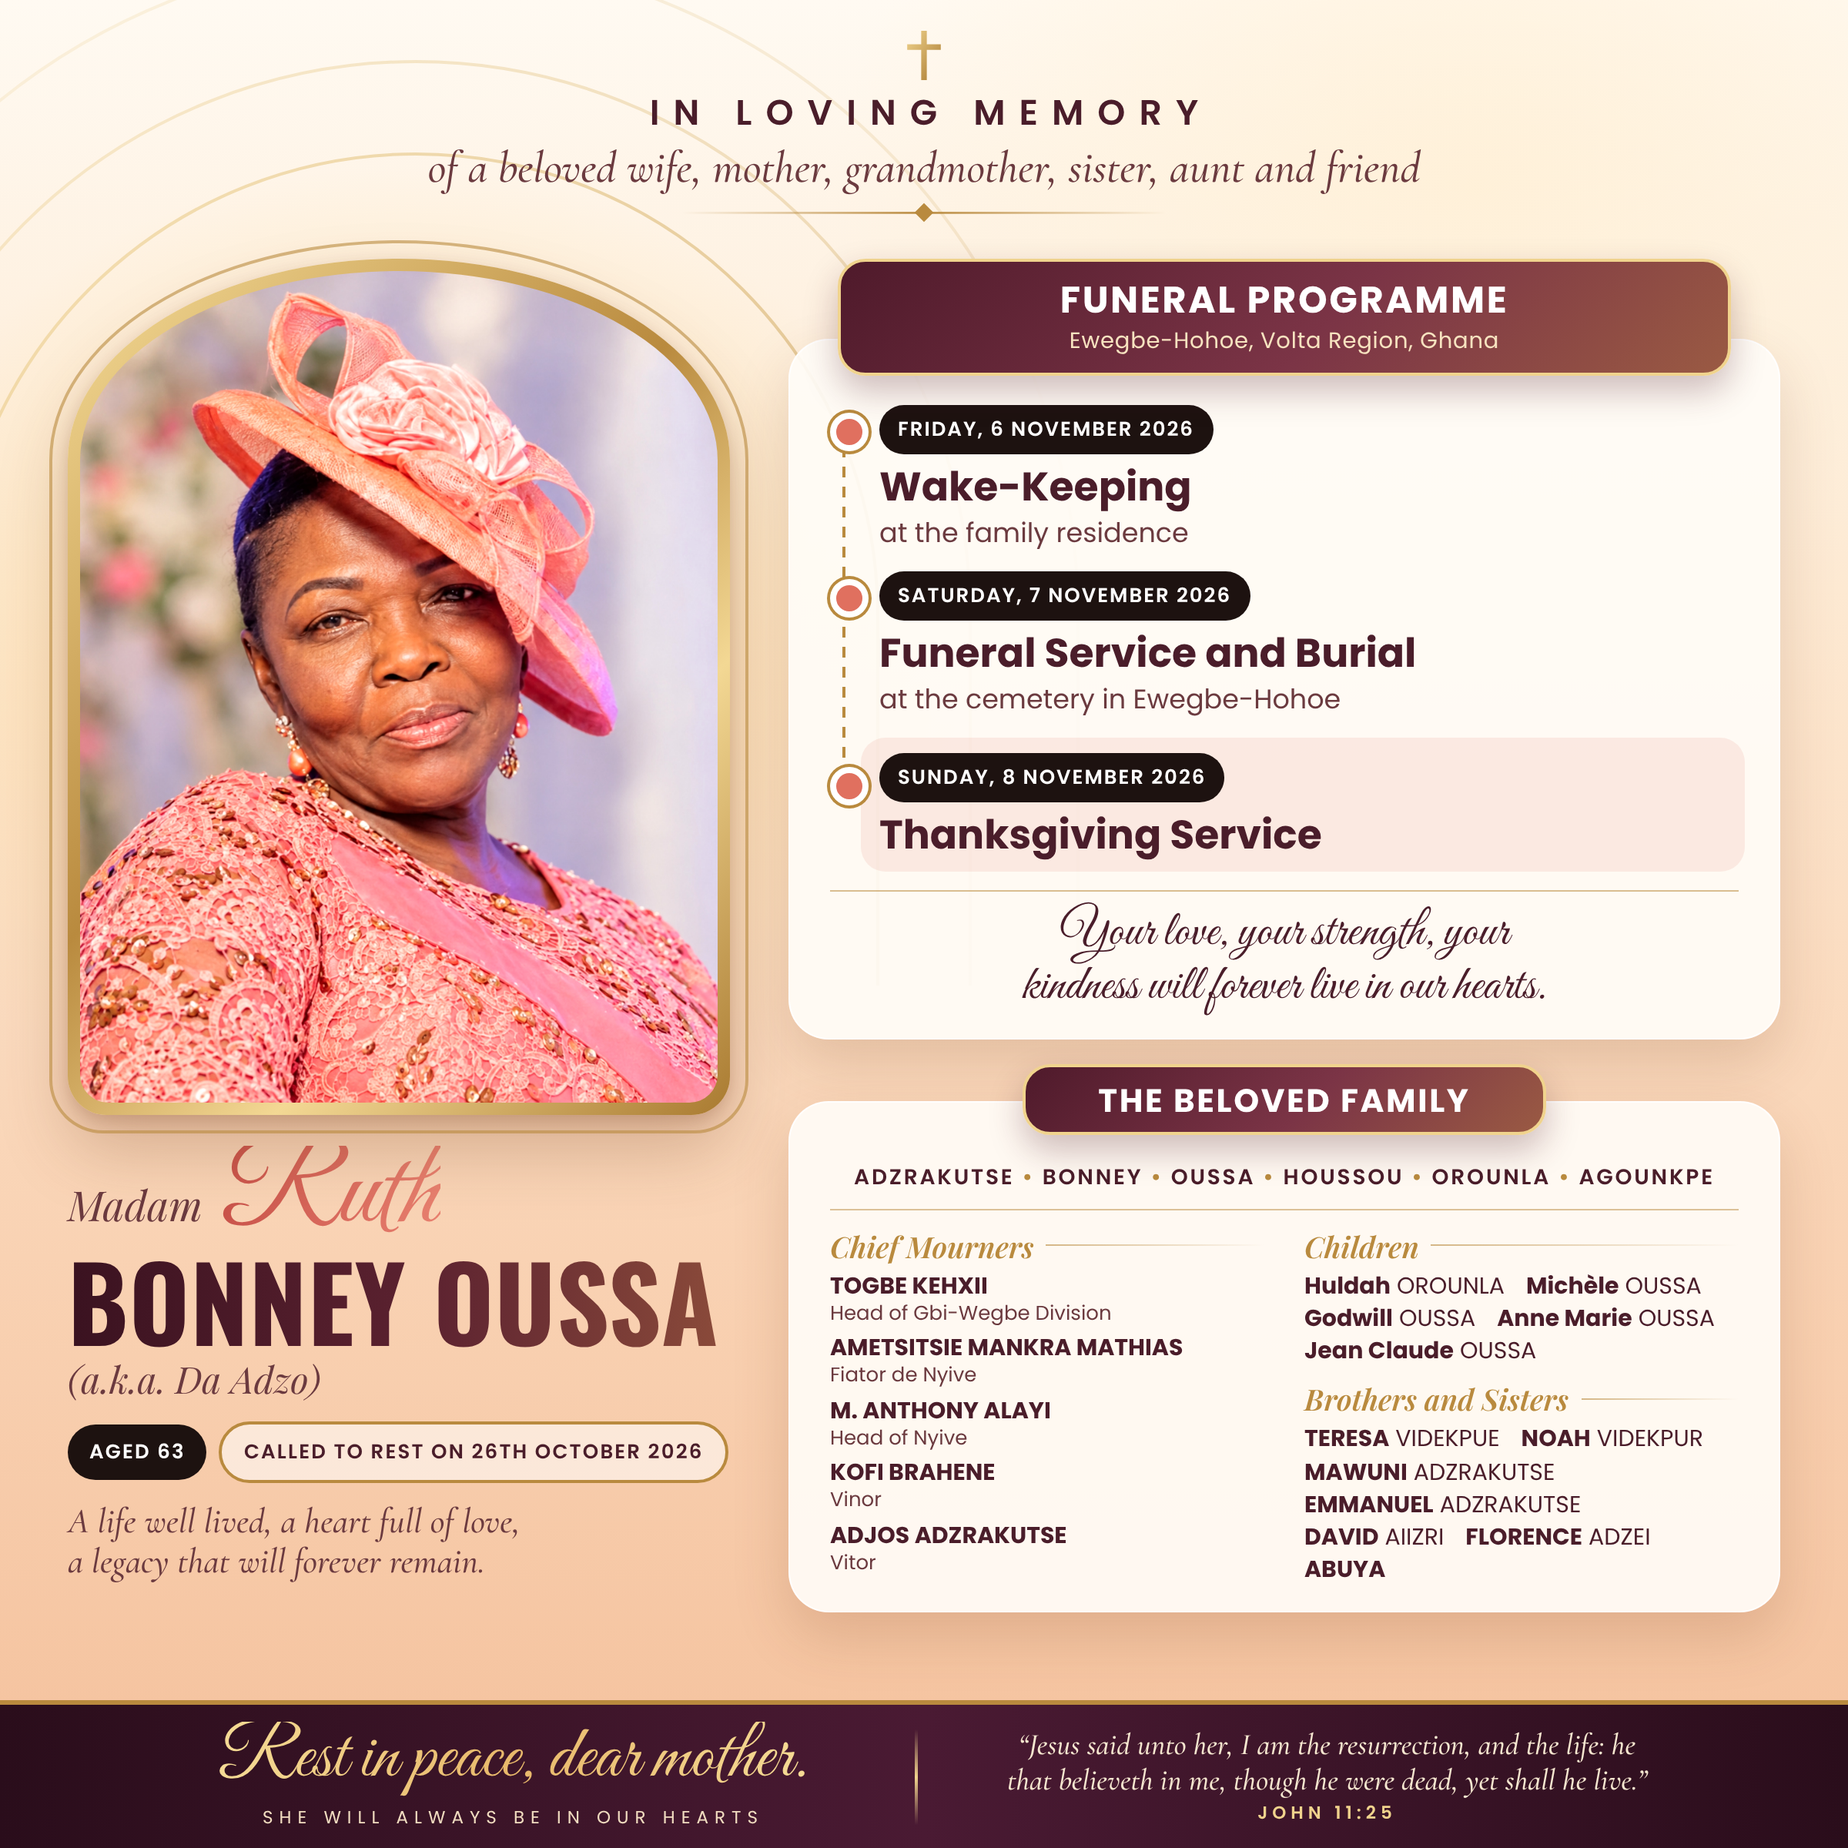
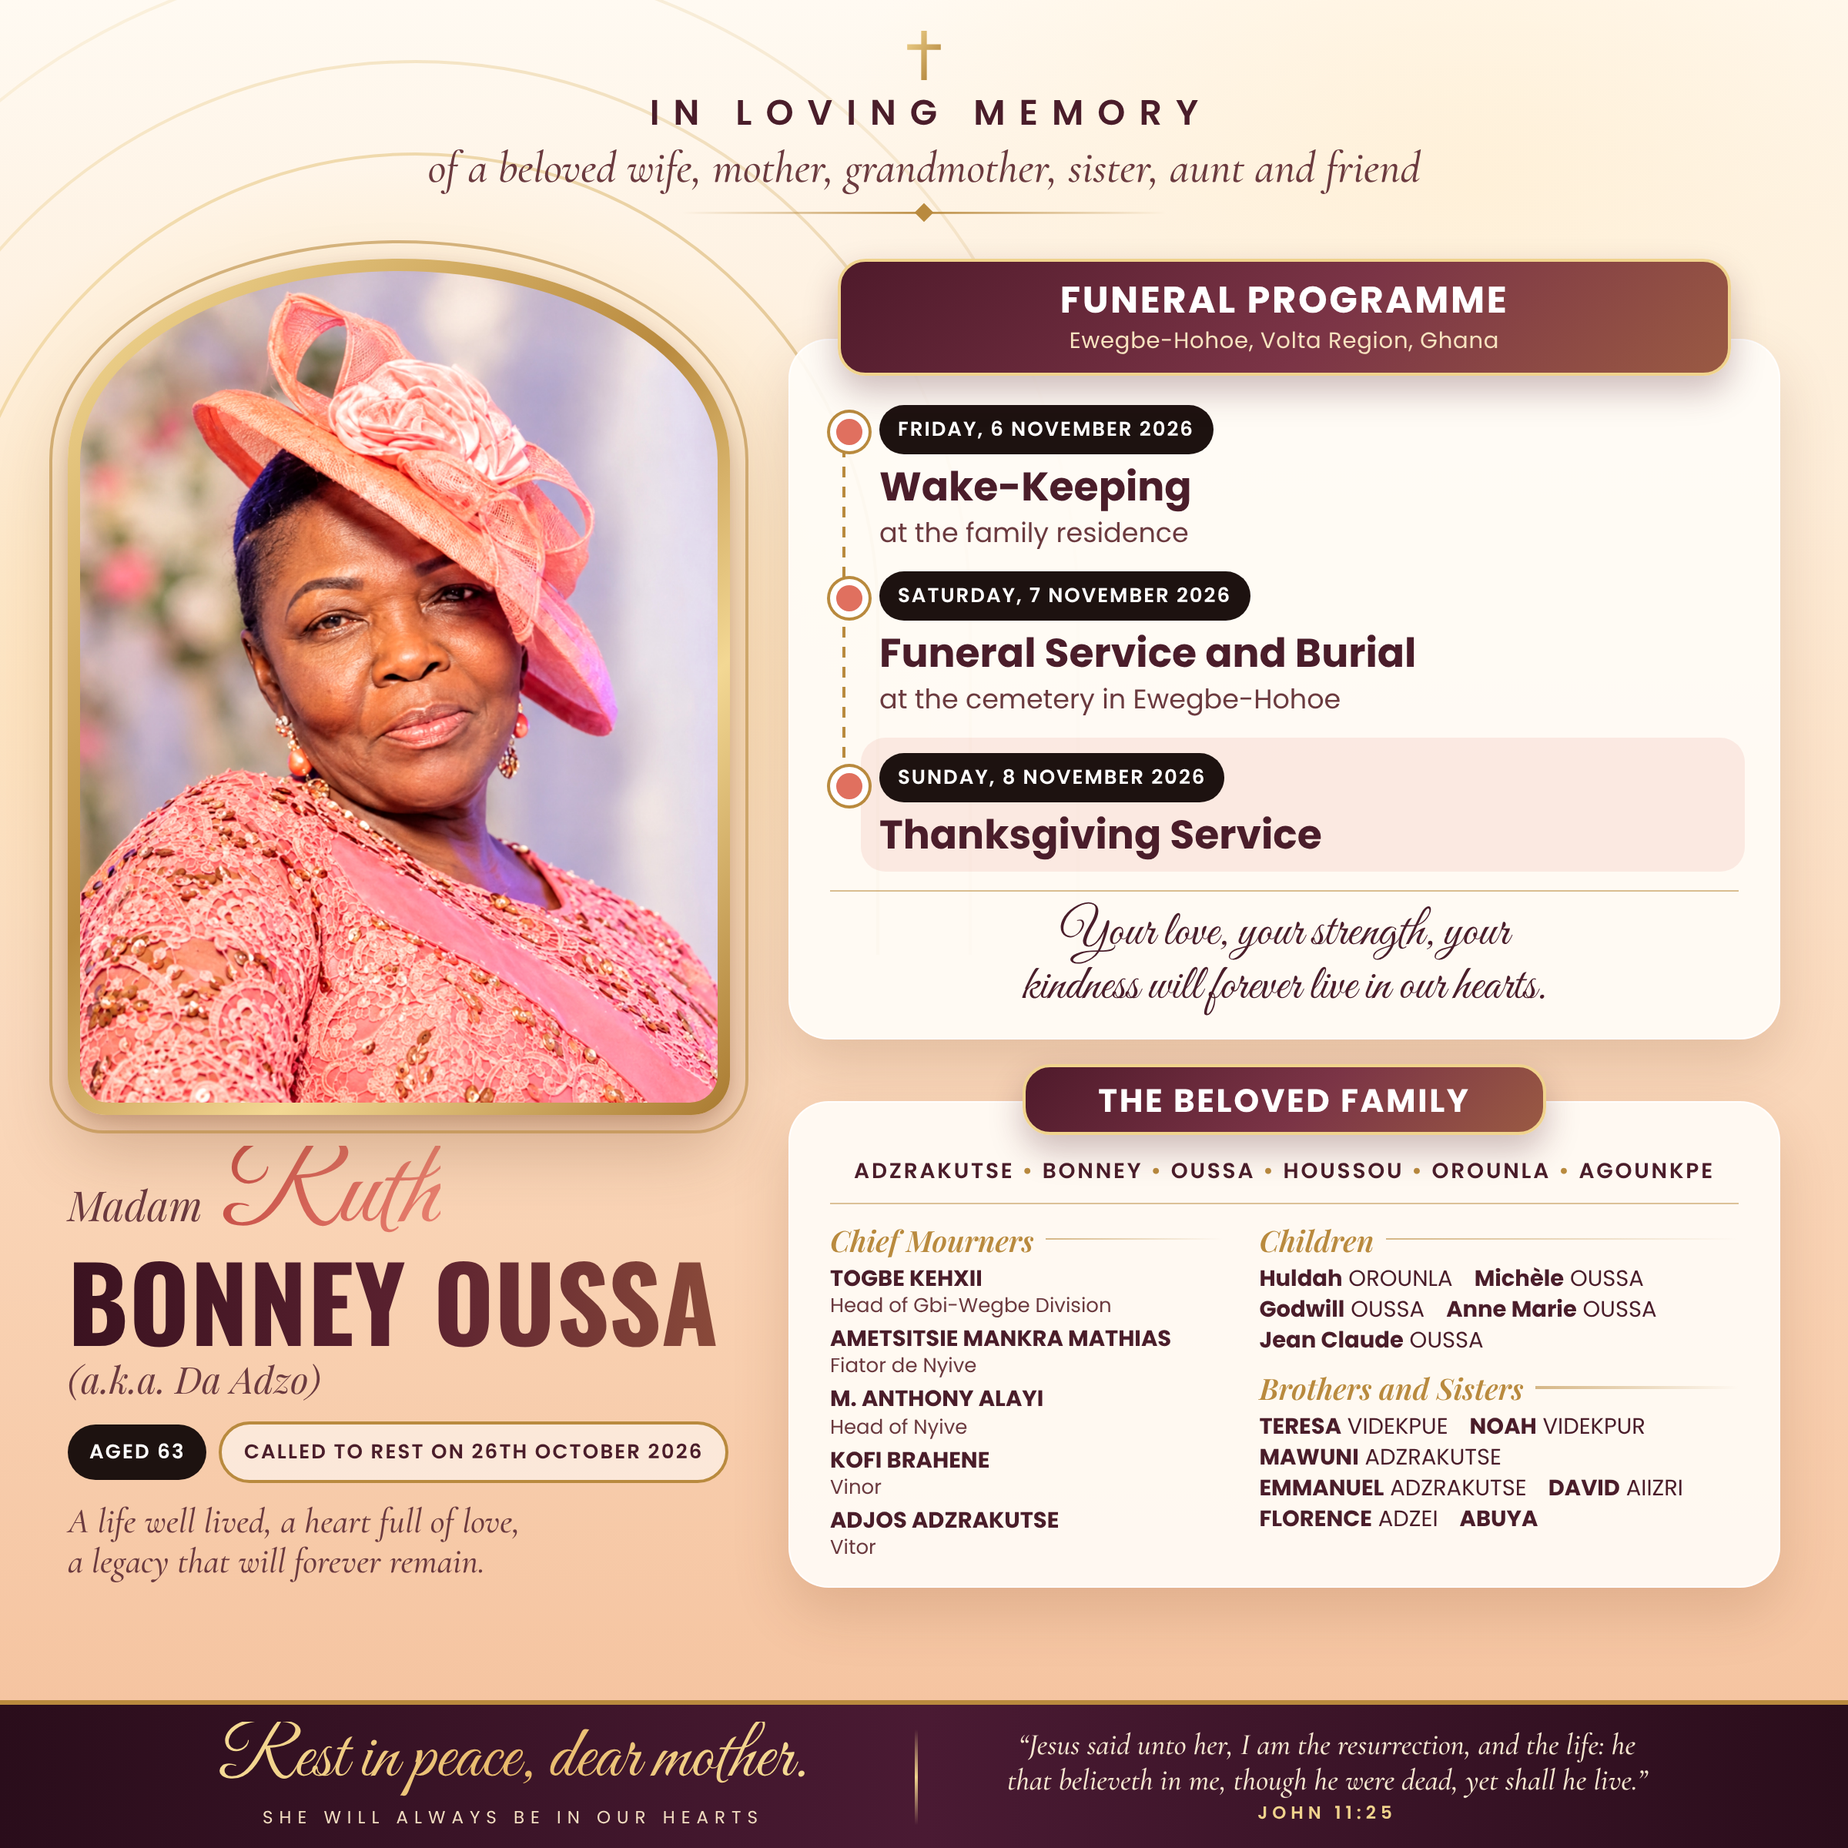
Poster (FR): new children list with spouses/children, 'Veuve' before Ruth
Claude-Session: https://claude.ai/code/session_01K4EnF2A5EJ5axGxs2C2Gak

Changed region(s): [[0.4062, 0.625, 0.9688, 0.875]]

diff --git a/affiche-ruth-bonney-oussa/src/affiche-fr-square.html b/affiche-ruth-bonney-oussa/src/affiche-fr-square.html
@@ -84,18 +84,20 @@ html[lang=fr] .prog .tab span{font-size:13.5px;letter-spacing:.1px}
 .family{position:absolute;left:512px;right:44px}
 .family .tab{width:340px;padding:10px 10px 9px}
 .family .tab b{font-size:21px}
-.family .card{margin-top:-22px;padding:38px 26px 16px}
+.family .card{margin-top:-22px;padding:34px 26px 12px}
 .surnames{text-align:center;font-weight:600;font-size:14px;letter-spacing:1.4px;padding-bottom:10px;border-bottom:1.5px solid rgba(185,138,62,.5);white-space:nowrap}
 .surnames i{color:var(--gold);font-style:normal;padding:0 5px}
-.cols{display:grid;grid-template-columns:1fr 1fr;column-gap:26px;margin-top:10px}
+.cols{display:grid;grid-template-columns:.9fr 1.1fr;column-gap:24px;margin-top:10px}
 h4{font-family:'Playfair',serif;font-style:italic;font-weight:600;font-size:19px;color:var(--gold);margin:8px 0 3px;display:flex;align-items:center;gap:8px}
 h4::after{content:'';flex:1;height:1.5px;background:linear-gradient(90deg,rgba(185,138,62,.6),rgba(185,138,62,0))}
 .col h4:first-child{margin-top:0}
-.col p{font-size:15px;line-height:1.35;color:var(--ink)}
+.col p{font-size:14.5px;line-height:1.32;color:var(--ink)}
 .col p b{font-weight:700}
 .col p small{display:block;font-size:13px;color:var(--ink-soft);margin-bottom:4px;line-height:1.25}
 .hs{display:grid;grid-template-columns:auto 1fr;column-gap:20px}
 .hs h4::after{display:none}
+.kids p{margin-bottom:5px}
+.kids p span{color:var(--ink-soft)}
 .nw{white-space:nowrap}
 .names{display:flex;flex-wrap:wrap;gap:1px 14px}
 
@@ -131,7 +133,7 @@ footer .jn b{display:block;font-family:'Poppins',sans-serif;font-style:normal;fo
   <div class="left">
     <div class="frame"><div class="photo"></div></div>
     <div class="nameblock">
-      <div class="madam"><small>Madame</small><span>Ruth</span></div>
+      <div class="madam"><small>Madame Veuve</small><span>Ruth</span></div>
       <h1>BONNEY OUSSA</h1>
       <div class="aka">(alias Da Adzo)</div>
       <div class="dates"><span class="pill dark">63 ans</span><span class="pill gold">Rappelée à Dieu le 26 octobre 2026</span></div>
@@ -169,7 +171,13 @@ footer .jn b{display:block;font-family:'Poppins',sans-serif;font-style:normal;fo
         </div>
         <div class="col">
           <h4>Enfants</h4>
-          <p class="names"><span class="nw"><b>Huldah</b> OROUNLA</span> <span class="nw"><b>Michèle</b> OUSSA</span> <span class="nw"><b>Godwill</b> OUSSA</span> <span class="nw"><b>Anne Marie</b> OUSSA</span> <span class="nw"><b>Jean Claude</b> OUSSA</span></p>
+          <div class="kids">
+          <p><b>Huldah</b> OUSSA OROUNLA, <span>son époux et leurs enfants</span></p>
+          <p><b>Michèle</b> OUSSA <span>et son enfant</span></p>
+          <p><b>Godwill</b> OUSSA <span>et son épouse</span></p>
+          <p><b>Jean Claude</b> OUSSA, <span>son épouse et leurs enfants</span></p>
+          <p><b>Anne Marie</b> OUSSA</p>
+        </div>
           <h4>Frères et sœurs</h4>
           <p class="names"><span class="nw"><b>TERESA</b> VIDEKPUE</span> <span class="nw"><b>NOAH</b> VIDEKPUR</span> <span class="nw"><b>MAWUNI</b> ADZRAKUTSE</span> <span class="nw"><b>EMMANUEL</b> ADZRAKUTSE</span> <span class="nw"><b>DAVID</b> AIIZRI</span> <span class="nw"><b>FLORENCE</b> ADZEI</span> <span class="nw"><b>ABUYA</b></span></p>
         </div>

diff --git a/affiche-ruth-bonney-oussa/src/template-square.html b/affiche-ruth-bonney-oussa/src/template-square.html
@@ -84,18 +84,20 @@ html[lang=fr] .prog .tab span{font-size:13.5px;letter-spacing:.1px}
 .family{position:absolute;left:512px;right:44px}
 .family .tab{width:340px;padding:10px 10px 9px}
 .family .tab b{font-size:21px}
-.family .card{margin-top:-22px;padding:38px 26px 16px}
+.family .card{margin-top:-22px;padding:34px 26px 12px}
 .surnames{text-align:center;font-weight:600;font-size:14px;letter-spacing:1.4px;padding-bottom:10px;border-bottom:1.5px solid rgba(185,138,62,.5);white-space:nowrap}
 .surnames i{color:var(--gold);font-style:normal;padding:0 5px}
-.cols{display:grid;grid-template-columns:1fr 1fr;column-gap:26px;margin-top:10px}
+.cols{display:grid;grid-template-columns:.9fr 1.1fr;column-gap:24px;margin-top:10px}
 h4{font-family:'Playfair',serif;font-style:italic;font-weight:600;font-size:19px;color:var(--gold);margin:8px 0 3px;display:flex;align-items:center;gap:8px}
 h4::after{content:'';flex:1;height:1.5px;background:linear-gradient(90deg,rgba(185,138,62,.6),rgba(185,138,62,0))}
 .col h4:first-child{margin-top:0}
-.col p{font-size:15px;line-height:1.35;color:var(--ink)}
+.col p{font-size:14.5px;line-height:1.32;color:var(--ink)}
 .col p b{font-weight:700}
 .col p small{display:block;font-size:13px;color:var(--ink-soft);margin-bottom:4px;line-height:1.25}
 .hs{display:grid;grid-template-columns:auto 1fr;column-gap:20px}
 .hs h4::after{display:none}
+.kids p{margin-bottom:5px}
+.kids p span{color:var(--ink-soft)}
 .nw{white-space:nowrap}
 .names{display:flex;flex-wrap:wrap;gap:1px 14px}
 
@@ -169,7 +171,7 @@ footer .jn b{display:block;font-family:'Poppins',sans-serif;font-style:normal;fo
         </div>
         <div class="col">
           <h4>{{h_children}}</h4>
-          <p class="names"><span class="nw"><b>Huldah</b> OROUNLA</span> <span class="nw"><b>Michèle</b> OUSSA</span> <span class="nw"><b>Godwill</b> OUSSA</span> <span class="nw"><b>Anne Marie</b> OUSSA</span> <span class="nw"><b>Jean Claude</b> OUSSA</span></p>
+          {{children_html}}
           <h4>{{h_siblings}}</h4>
           <p class="names"><span class="nw"><b>TERESA</b> VIDEKPUE</span> <span class="nw"><b>NOAH</b> VIDEKPUR</span> <span class="nw"><b>MAWUNI</b> ADZRAKUTSE</span> <span class="nw"><b>EMMANUEL</b> ADZRAKUTSE</span> <span class="nw"><b>DAVID</b> AIIZRI</span> <span class="nw"><b>FLORENCE</b> ADZEI</span> <span class="nw"><b>ABUYA</b></span></p>
         </div>

diff --git a/affiche-ruth-bonney-oussa/src/affiche-fr.html b/affiche-ruth-bonney-oussa/src/affiche-fr.html
@@ -120,6 +120,8 @@ html[lang=fr] .prog .tab span{font-size:15px;letter-spacing:.2px}
 .m3{display:grid;grid-template-columns:1fr 1.3fr 1fr;column-gap:22px;row-gap:12px}
 .hs{display:grid;grid-template-columns:auto 1fr;column-gap:34px}
 .hs h4::after{display:none}
+.kids p{margin-bottom:5px}
+.kids p span{color:var(--ink-soft)}
 .nw{white-space:nowrap}
 .names{display:flex;flex-wrap:wrap;gap:2px 22px}
 .cols{display:grid;grid-template-columns:1fr 1fr;column-gap:44px;margin-top:12px}
@@ -180,7 +182,7 @@ footer .jn b{display:block;font-family:'Poppins',sans-serif;font-style:normal;fo
     <div class="left">
       <div class="frame"><div class="photo"></div></div>
       <div class="nameblock">
-        <div class="madam"><small>Madame</small><span>Ruth</span></div>
+        <div class="madam"><small>Madame Veuve</small><span>Ruth</span></div>
         <h1>BONNEY OUSSA</h1>
         <div class="aka">(alias Da Adzo)</div>
         <div class="dates"><span class="pill dark">63 ans</span><span class="pill gold">Rappelée à Dieu le 26 octobre 2026</span></div>
@@ -219,7 +221,13 @@ footer .jn b{display:block;font-family:'Poppins',sans-serif;font-style:normal;fo
       <div class="cols">
         <div class="col">
           <h4>Enfants</h4>
-          <p class="names"><span class="nw"><b>Huldah</b> OROUNLA</span> <span class="nw"><b>Michèle</b> OUSSA</span> <span class="nw"><b>Godwill</b> OUSSA</span> <span class="nw"><b>Anne Marie</b> OUSSA</span> <span class="nw"><b>Jean Claude</b> OUSSA</span></p>
+          <div class="kids">
+          <p><b>Huldah</b> OUSSA OROUNLA, <span>son époux et leurs enfants</span></p>
+          <p><b>Michèle</b> OUSSA <span>et son enfant</span></p>
+          <p><b>Godwill</b> OUSSA <span>et son épouse</span></p>
+          <p><b>Jean Claude</b> OUSSA, <span>son épouse et leurs enfants</span></p>
+          <p><b>Anne Marie</b> OUSSA</p>
+        </div>
         </div>
         <div class="col">
           <h4>Frères et sœurs</h4>

diff --git a/affiche-ruth-bonney-oussa/src/affiche-en-square.html b/affiche-ruth-bonney-oussa/src/affiche-en-square.html
@@ -84,18 +84,20 @@ html[lang=fr] .prog .tab span{font-size:13.5px;letter-spacing:.1px}
 .family{position:absolute;left:512px;right:44px}
 .family .tab{width:340px;padding:10px 10px 9px}
 .family .tab b{font-size:21px}
-.family .card{margin-top:-22px;padding:38px 26px 16px}
+.family .card{margin-top:-22px;padding:34px 26px 12px}
 .surnames{text-align:center;font-weight:600;font-size:14px;letter-spacing:1.4px;padding-bottom:10px;border-bottom:1.5px solid rgba(185,138,62,.5);white-space:nowrap}
 .surnames i{color:var(--gold);font-style:normal;padding:0 5px}
-.cols{display:grid;grid-template-columns:1fr 1fr;column-gap:26px;margin-top:10px}
+.cols{display:grid;grid-template-columns:.9fr 1.1fr;column-gap:24px;margin-top:10px}
 h4{font-family:'Playfair',serif;font-style:italic;font-weight:600;font-size:19px;color:var(--gold);margin:8px 0 3px;display:flex;align-items:center;gap:8px}
 h4::after{content:'';flex:1;height:1.5px;background:linear-gradient(90deg,rgba(185,138,62,.6),rgba(185,138,62,0))}
 .col h4:first-child{margin-top:0}
-.col p{font-size:15px;line-height:1.35;color:var(--ink)}
+.col p{font-size:14.5px;line-height:1.32;color:var(--ink)}
 .col p b{font-weight:700}
 .col p small{display:block;font-size:13px;color:var(--ink-soft);margin-bottom:4px;line-height:1.25}
 .hs{display:grid;grid-template-columns:auto 1fr;column-gap:20px}
 .hs h4::after{display:none}
+.kids p{margin-bottom:5px}
+.kids p span{color:var(--ink-soft)}
 .nw{white-space:nowrap}
 .names{display:flex;flex-wrap:wrap;gap:1px 14px}
 

diff --git a/affiche-ruth-bonney-oussa/src/template.html b/affiche-ruth-bonney-oussa/src/template.html
@@ -120,6 +120,8 @@ html[lang=fr] .prog .tab span{font-size:15px;letter-spacing:.2px}
 .m3{display:grid;grid-template-columns:1fr 1.3fr 1fr;column-gap:22px;row-gap:12px}
 .hs{display:grid;grid-template-columns:auto 1fr;column-gap:34px}
 .hs h4::after{display:none}
+.kids p{margin-bottom:5px}
+.kids p span{color:var(--ink-soft)}
 .nw{white-space:nowrap}
 .names{display:flex;flex-wrap:wrap;gap:2px 22px}
 .cols{display:grid;grid-template-columns:1fr 1fr;column-gap:44px;margin-top:12px}
@@ -219,7 +221,7 @@ footer .jn b{display:block;font-family:'Poppins',sans-serif;font-style:normal;fo
       <div class="cols">
         <div class="col">
           <h4>{{h_children}}</h4>
-          <p class="names"><span class="nw"><b>Huldah</b> OROUNLA</span> <span class="nw"><b>Michèle</b> OUSSA</span> <span class="nw"><b>Godwill</b> OUSSA</span> <span class="nw"><b>Anne Marie</b> OUSSA</span> <span class="nw"><b>Jean Claude</b> OUSSA</span></p>
+          {{children_html}}
         </div>
         <div class="col">
           <h4>{{h_siblings}}</h4>

diff --git a/affiche-ruth-bonney-oussa/src/affiche-en.html b/affiche-ruth-bonney-oussa/src/affiche-en.html
@@ -120,6 +120,8 @@ html[lang=fr] .prog .tab span{font-size:15px;letter-spacing:.2px}
 .m3{display:grid;grid-template-columns:1fr 1.3fr 1fr;column-gap:22px;row-gap:12px}
 .hs{display:grid;grid-template-columns:auto 1fr;column-gap:34px}
 .hs h4::after{display:none}
+.kids p{margin-bottom:5px}
+.kids p span{color:var(--ink-soft)}
 .nw{white-space:nowrap}
 .names{display:flex;flex-wrap:wrap;gap:2px 22px}
 .cols{display:grid;grid-template-columns:1fr 1fr;column-gap:44px;margin-top:12px}

diff --git a/affiche-ruth-bonney-oussa/src/build.py b/affiche-ruth-bonney-oussa/src/build.py
@@ -4,7 +4,7 @@ tpl = (root/'src'/'template.html').read_text(encoding='utf-8')
 sprigs = (root/'src'/'sprigs.js').read_text(encoding='utf-8') if (root/'src'/'sprigs.js').exists() else ''
 
 L = {
- 'en': dict(lang='en', title='In Loving Memory – Madam Ruth Bonney Oussa',
+ 'en': dict(lang='en', children_html='''<p class="names"><span class="nw"><b>Huldah</b> OROUNLA</span> <span class="nw"><b>Michèle</b> OUSSA</span> <span class="nw"><b>Godwill</b> OUSSA</span> <span class="nw"><b>Anne Marie</b> OUSSA</span> <span class="nw"><b>Jean Claude</b> OUSSA</span></p>''', title='In Loving Memory – Madam Ruth Bonney Oussa',
   memory='IN LOVING MEMORY', of='of a beloved wife, mother, grandmother, sister, aunt and friend',
   madam='Madam', aka='(a.k.a. Da Adzo)', aged='Aged 63', called='Called to rest on 26th October 2026',
   lifequote='A life well lived, a heart full of love, a legacy that will forever remain.',
@@ -19,9 +19,15 @@ L = {
   rip='Rest in peace, dear mother.', rip2='She will always be in our hearts',
   john='“Jesus said unto her, I am the resurrection, and the life: he that believeth in me, though he were dead, yet shall he live.”',
   john_ref='JOHN 11:25'),
- 'fr': dict(lang='fr', title='En mémoire de Madame Ruth Bonney Oussa',
+ 'fr': dict(lang='fr', children_html='''<div class="kids">
+          <p><b>Huldah</b> OUSSA OROUNLA, <span>son époux et leurs enfants</span></p>
+          <p><b>Michèle</b> OUSSA <span>et son enfant</span></p>
+          <p><b>Godwill</b> OUSSA <span>et son épouse</span></p>
+          <p><b>Jean Claude</b> OUSSA, <span>son épouse et leurs enfants</span></p>
+          <p><b>Anne Marie</b> OUSSA</p>
+        </div>''', title='En mémoire de Madame Ruth Bonney Oussa',
   memory='EN MÉMOIRE DE', of='notre très chère épouse, maman, grand-mère, sœur, tante et amie',
-  madam='Madame', aka='(alias Da Adzo)', aged='63 ans', called='Rappelée à Dieu le 26 octobre 2026',
+  madam='Madame Veuve', aka='(alias Da Adzo)', aged='63 ans', called='Rappelée à Dieu le 26 octobre 2026',
   lifequote='Une vie bien vécue, un cœur plein d’amour, un héritage qui restera à jamais.',
   prog_title='PROGRAMME DES OBSÈQUES', prog_place='Ewegbe-Hohoe, Région de la Volta, Ghana',
   d1='VENDREDI 6 NOVEMBRE 2026', t1='Veillée mortuaire', p1='à la résidence familiale',
